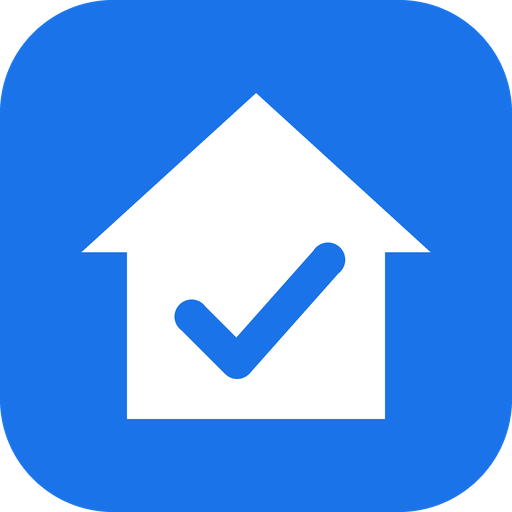
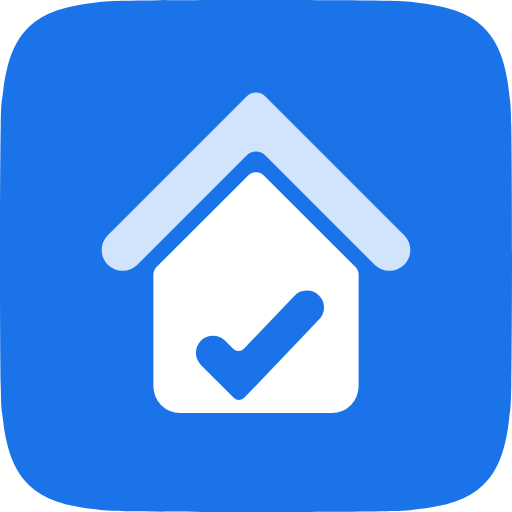
Nuova icona e marchio (casa con spunta), avanzamento flusso turni e QA
Claude-Session: https://claude.ai/code/session_01HjMxZM84sCo6Auv8ZFruTW

diff --git a/js/screens/onboarding.js b/js/screens/onboarding.js
@@ -25,7 +25,11 @@ export function extractCode(v) {
 }
 const put = (el, ...kids) => el.append(...kids.flat(Infinity).filter((k) => k !== null && k !== undefined && k !== false));
 const spinner = (label) => h('div', { class: 'onb-wait', role: 'status' }, h('i', { class: 'onb-spin', 'aria-hidden': 'true' }), h('span', null, label));
-const logo = () => h('div', { class: 'logo' }, icon('housecheck'));
+// Marchio Tidy House (icons/logo-mark.svg): tetto + casa con spunta in negativo; segue il colore del riquadro .logo (currentColor)
+const MARK = '<svg class="mark" viewBox="78 48.5 356 356" aria-hidden="true" focusable="false">'
+  + '<path fill="currentColor" fill-opacity=".8" d="M100 242A22 22 0 0 0 131.11 242L246.04 127.07A14.08 14.08 0 0 1 265.96 127.07L380.89 242A22 22 0 0 0 412 242L412 242A22 22 0 0 0 412 210.89L265.96 64.84A14.08 14.08 0 0 0 246.04 64.84L100 210.89A22 22 0 0 0 100 242Z"/>'
+  + '<path fill="currentColor" fill-rule="evenodd" d="M247.51 148.23A12 12 0 0 1 264.49 148.23L360.49 244.23A12 12 0 0 1 364 252.71L364 370A28 28 0 0 1 336 398L176 398A28 28 0 0 1 148 370L148 252.71A12 12 0 0 1 151.51 244.23ZM198 322A18 18 0 0 0 198 347.46L232.57 382.02A7.92 7.92 0 0 0 243.9 381.89L322.59 299.45A18 18 0 0 0 322 274L322 274A18 18 0 0 0 296.55 274.59L243.3 330.38A7.92 7.92 0 0 1 231.97 330.51L223.46 322A18 18 0 0 0 198 322Z"/></svg>';
+const logo = () => h('div', { class: 'logo', html: MARK });
 const page = (cls, ...kids) => h('div', { class: 'gate onb ' + cls }, h('div', { class: 'panel onb-panel fade-up' }, ...kids));
 const errBox = () => h('p', { class: 'onb-err', role: 'alert', hidden: true });
 function setErr(el, msg) { el.textContent = msg || ''; el.hidden = !msg; }

diff --git a/sw.js b/sw.js
@@ -1,6 +1,6 @@
 // Service worker di Tidy House: funzionamento offline + notifiche push.
 // Per pubblicare una nuova versione dell'app basta cambiare VERSION: il nuovo worker rifà la cache da zero.
-const VERSION = '1.0.1';
+const VERSION = '1.0.2';
 const CACHE = `tidyhouse-${VERSION}`;
 
 // File dell'app shell. I mancanti vengono ignorati; tutto il resto viene messo in cache la prima volta che serve.
@@ -13,6 +13,7 @@ const SHELL = [
   'js/strings/set.js', 'js/strings/push.js',
   'vendor/qr.js',
   'icons/icon-192.png', 'icons/icon-512.png', 'icons/maskable-512.png', 'icons/apple-touch-icon.png', 'icons/favicon-32.png',
+  'icons/favicon.svg', 'icons/logo.svg', 'icons/badge-96.png', 'icons/monochrome-512.png',
 ];
 
 self.addEventListener('install', (event) => {
@@ -82,7 +83,8 @@ self.addEventListener('push', (event) => {
   let d = {};
   try { d = event.data ? event.data.json() : {}; } catch { try { d = { body: event.data.text() }; } catch { d = {}; } }
   const icon = new URL('icons/icon-192.png', self.registration.scope).href;
-  const opts = { body: d.body || '', icon, badge: icon, data: { url: d.url || '#/', house: d.house || null } };
+  const badge = new URL('icons/badge-96.png', self.registration.scope).href;
+  const opts = { body: d.body || '', icon, badge, data: { url: d.url || '#/', house: d.house || null } };
   if (d.tag) { opts.tag = String(d.tag); opts.renotify = true; }
   // iOS richiede che ogni push mostri una notifica: anche se il payload è vuoto o illeggibile
   event.waitUntil(self.registration.showNotification(d.title || 'Tidy House', opts));

diff --git a/css/onboarding.css b/css/onboarding.css
@@ -9,6 +9,9 @@
 .gate.onb.wide .panel { width: min(100%, 540px); }
 .onb-panel { gap: 20px; }
 .gate.onb .logo { margin-inline: auto; }
+/* marchio Tidy House: riquadro piatto, angoli ~22% come l'icona dell'app, niente ombre colorate */
+.gate.onb .logo:not(.onb-check):not(.onb-warn-logo) { border-radius: 22%; box-shadow: none; }
+.logo svg.mark { width: 72%; height: 72%; display: block; }
 .onb-hero { text-align: center; display: grid; gap: 8px; }
 .onb-hero h1, .onb-h { font-size: 2.25rem; }
 .onb-h { margin: 0; line-height: 1.08; letter-spacing: -.035em; font-weight: 800; }
@@ -58,8 +61,7 @@
 
 /* wizard */
 .onb-top { display: flex; align-items: center; gap: 14px; }
-.gate.onb .onb-top .logo { width: 52px; height: 52px; border-radius: 16px; margin: 0; box-shadow: 0 10px 22px -10px rgba(10,132,255,.6); }
-.onb-top .logo svg.i { width: 28px; height: 28px; }
+.gate.onb .onb-top .logo { width: 52px; height: 52px; margin: 0; }
 .onb-kicker { font-size: .75rem; font-weight: 700; letter-spacing: .06em; text-transform: uppercase; color: var(--text-2); }
 .onb-steplabel { font-weight: 700; letter-spacing: -.01em; }
 .onb-step { outline: none; }

diff --git a/index.html b/index.html
@@ -13,7 +13,8 @@
   <meta name="apple-mobile-web-app-status-bar-style" content="default">
   <meta name="color-scheme" content="light dark">
   <link rel="manifest" href="manifest.webmanifest">
-  <link rel="icon" href="icons/favicon-32.png" sizes="32x32">
+  <link rel="icon" href="icons/favicon.svg" type="image/svg+xml" sizes="any">
+  <link rel="icon" href="icons/favicon-32.png" type="image/png" sizes="32x32">
   <link rel="apple-touch-icon" href="icons/apple-touch-icon.png">
   <link rel="stylesheet" href="css/app.css">
   <script src="config.js"></script>
